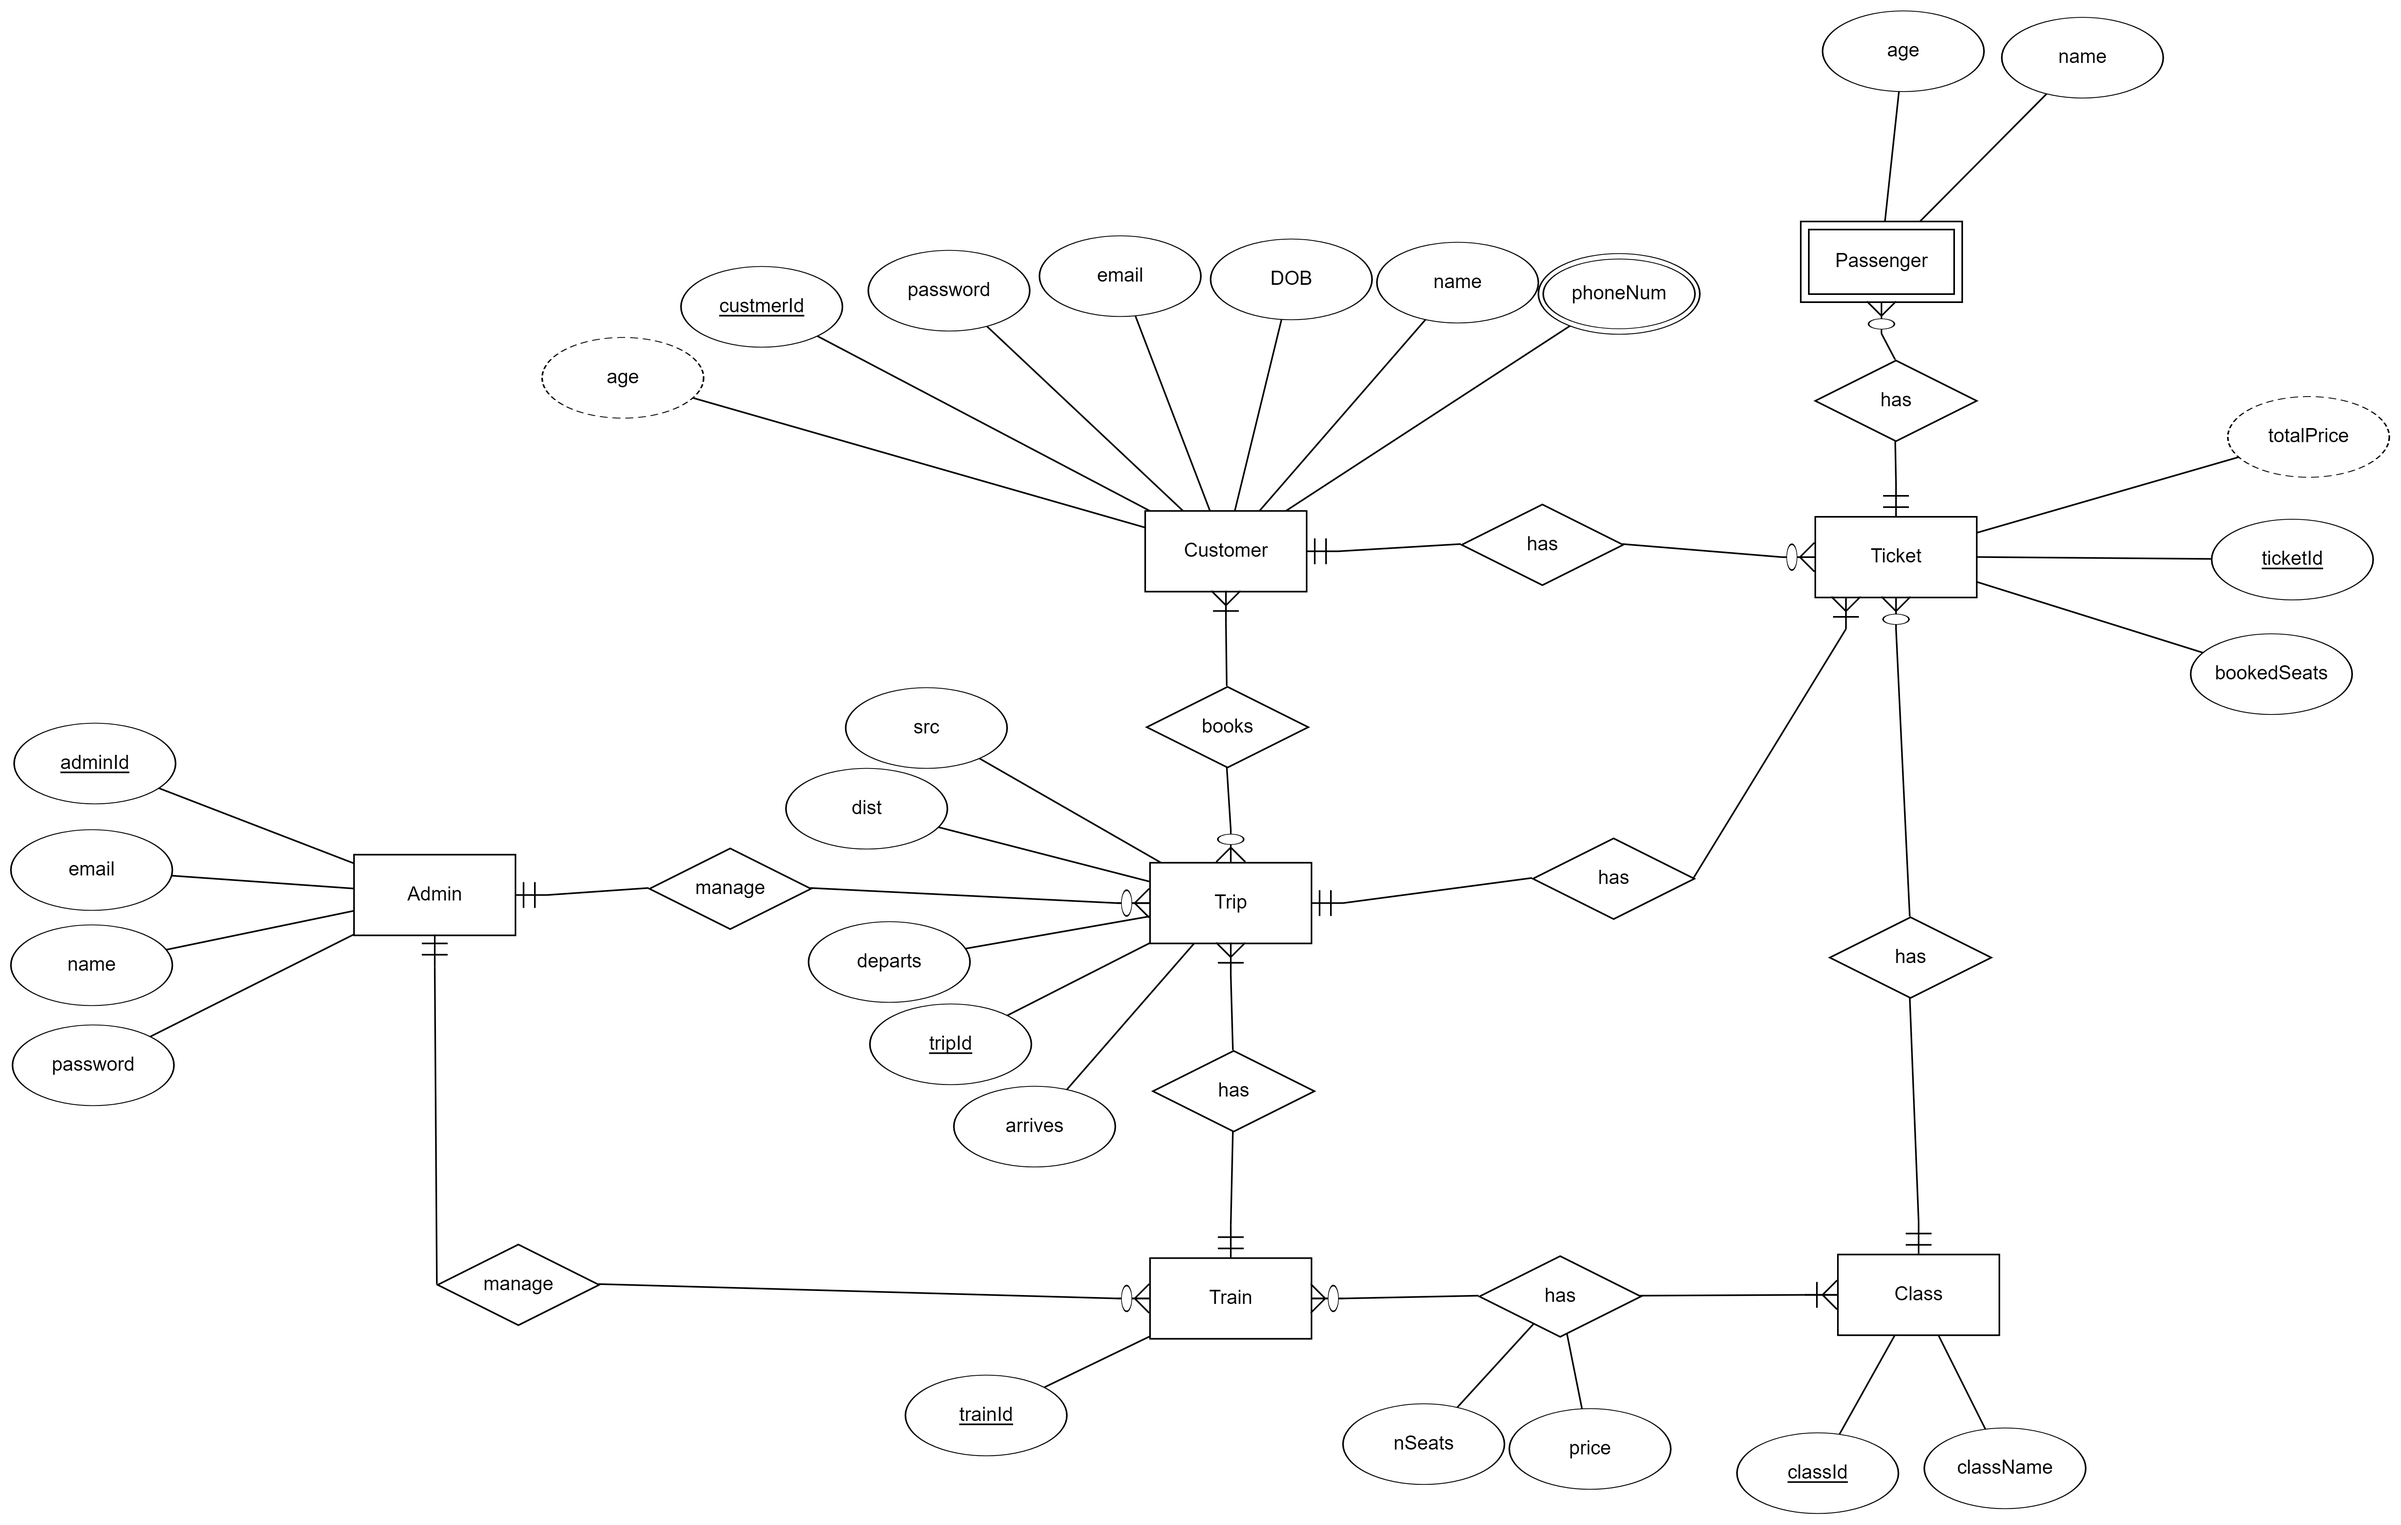
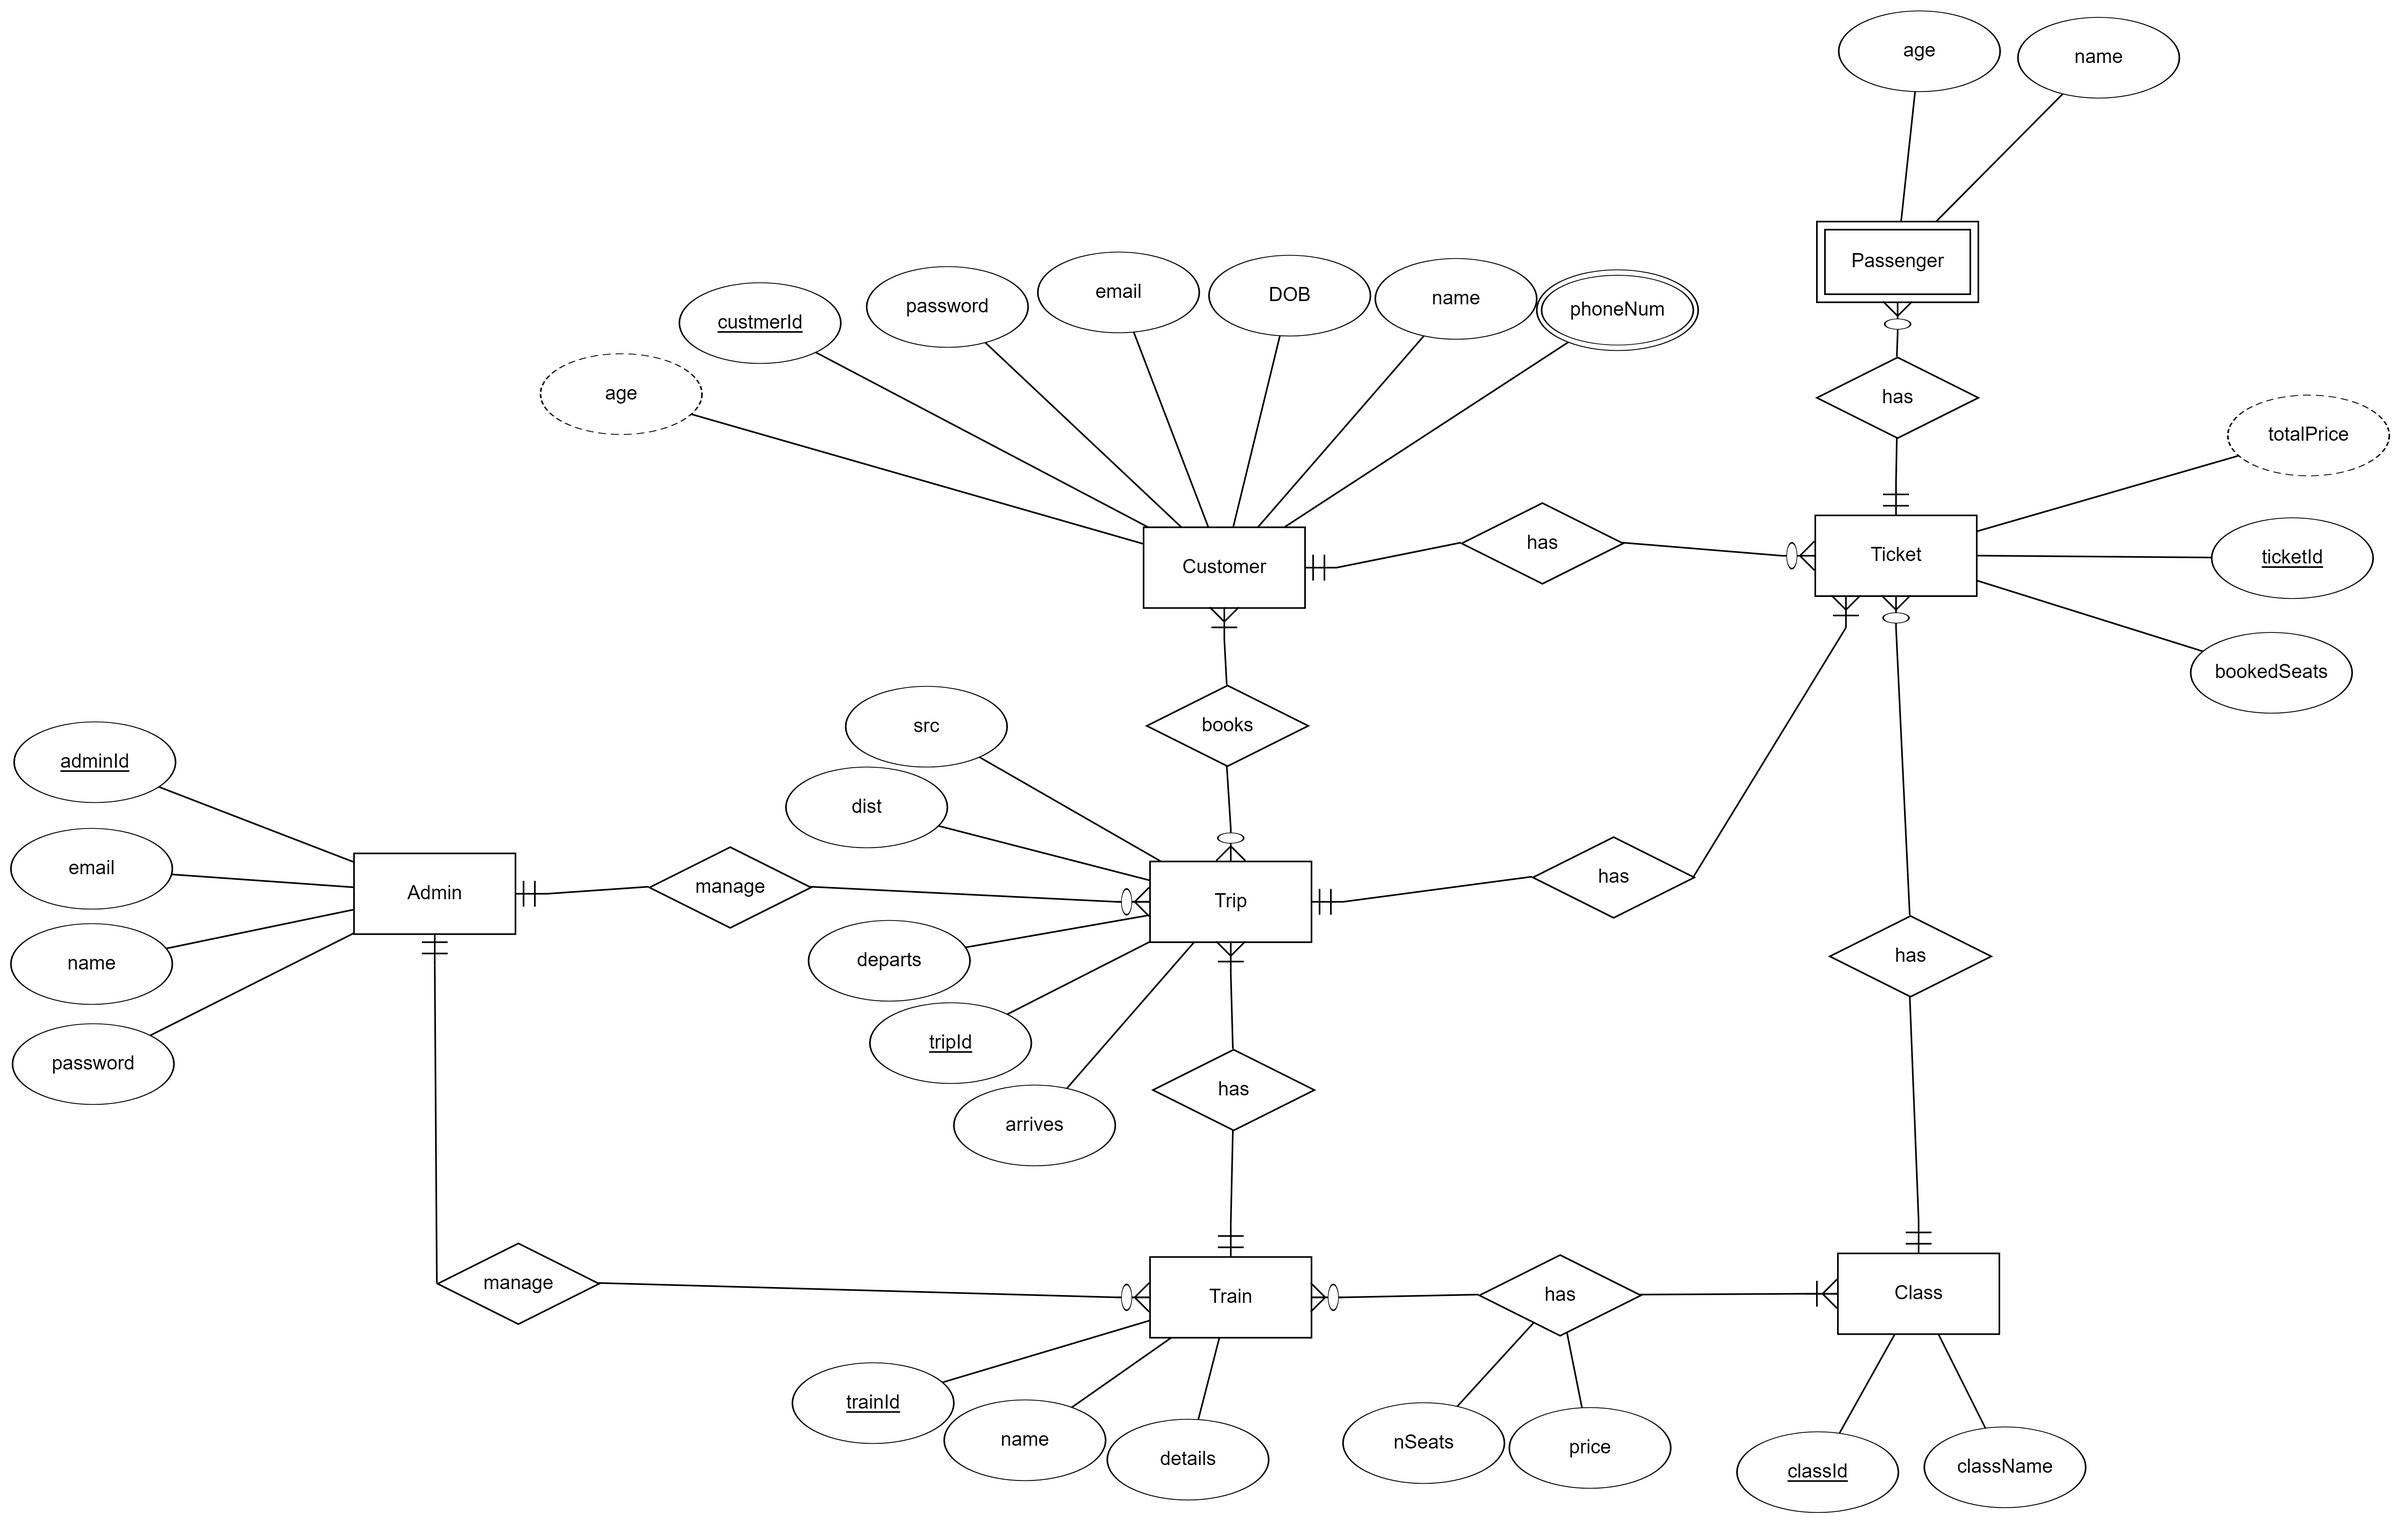
added name to train

diff --git a/Src/Customer.py b/Src/Customer.py
@@ -7,32 +7,6 @@ class Customer():
         self.email = ""
         self.password = ""
     
-    def signIn(self):
-        email = input("Enter your email address: ")
-        password = input("Enter your password: ")
-        
-        conn = sqlite3.connect('db.sqlite3')
-        cursor = conn.cursor()
-        
-        cursor.execute(f''' SELECT password FROM Customer WHERE email = "{email}" ''')
-        if cursor.fetchone() == None:
-            print("Error\n")
-        else:
-            if cursor.fetchone()[0] == password:
-                print("Login successful\n")
-                cursor.execute(f''' SELECT name, DOB, email, password FROM Customer WHERE email = "{email}" ''')
-                self.name = cursor.fetchone()[0]
-                self.DOB = cursor.fetchone()[1]
-                self.email = cursor.fetchone()[2]
-                self.password = cursor.fetchone()[3]
-                print(f"Welcome {self.name}\n")
-                return True
-            else:
-                print("Error\n")
-
-        conn.close()
-        return False
-    
     def signUp(self):
         name = input("Enter your name: ")
         DOB = input("Enter your Date Of Birth (D/M/Y): ")
@@ -64,3 +38,34 @@ class Customer():
 
         conn.close()
         return False
+
+
+
+    def signIn(self):
+        email = input("Enter your email address: ")
+        password = input("Enter your password: ")
+        
+        conn = sqlite3.connect('db.sqlite3')
+        cursor = conn.cursor()
+        
+        cursor.execute(f''' SELECT password FROM Customer WHERE email = "{email}" ''')
+        if cursor.fetchone() == None:
+            print("Error\n")
+        else:
+            if cursor.fetchone()[0] == password:
+                print("Login successful\n")
+                cursor.execute(f''' SELECT name, DOB, email, password FROM Customer WHERE email = "{email}" ''')
+                self.name = cursor.fetchone()[0]
+                self.DOB = cursor.fetchone()[1]
+                self.email = cursor.fetchone()[2]
+                self.password = cursor.fetchone()[3]
+                print(f"Welcome {self.name}\n")
+                return True
+            else:
+                print("Error\n")
+
+        conn.close()
+        return False
+    
+
+    

diff --git a/Src/Main.py b/Src/Main.py
@@ -11,18 +11,20 @@ from . import Admin, Customer
 # conn.close()
 
 class main():
-    
+    isSigned = False
     
     def signUp():
         while True:
             signAs = input("1- To sign Up as admin\n2- To sign Up as customer")
             if signAs == 1:
                 admin = Admin()
-                admin.signUp()
+                isSigned = admin.signUp()
+                if isSigned:
+                    admin.
                 break
             elif signAs == 2:
                 customer = Customer()
-                Customer.signUp()
+                isSigned = Customer.signUp()
                 break
             else:
                 print("Invalid Input")
@@ -34,11 +36,11 @@ class main():
             signInAs = input("1- To sign In as admin\n2- To sign In as customer")
             if signInAs == 1:
                 admin = Admin()
-                admin.signIn()
+                isSigned = admin.signIn()
                 break
             elif signInAs == 2:
                 customer = Customer()
-                customer.signIn()
+                isSigned = customer.signIn()
                 break
             else:
                 print("Invalid Input")

diff --git a/Src/Admin.py b/Src/Admin.py
@@ -51,3 +51,9 @@ class Admin():
                 print(f"Welcome {self.name}\n")
             else:
                 print("Error\n")
+
+    #def upadteCustomerDetails():
+
+    def addTrain():
+        description = input("enter the description of the train: ")
+        
